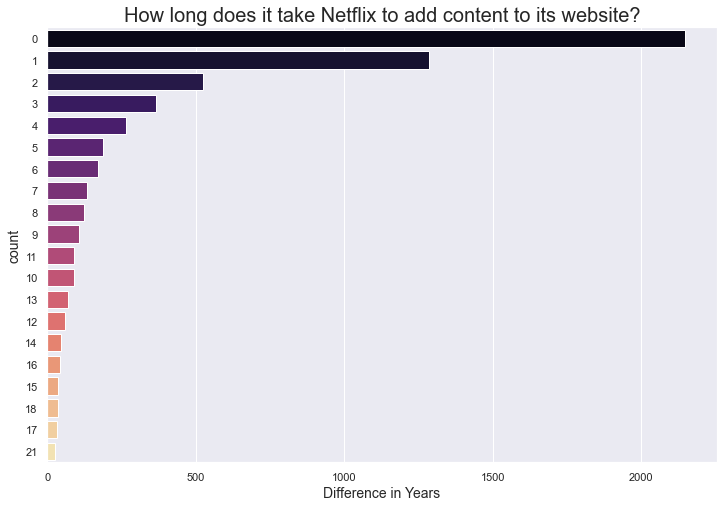
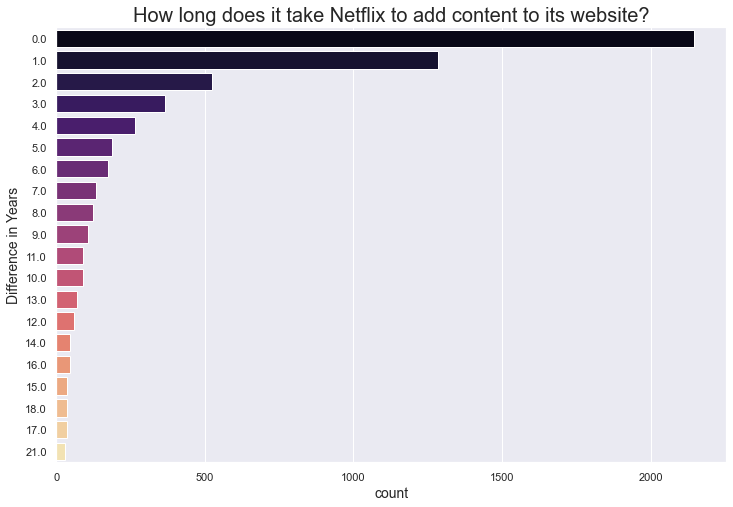
Updating graphs!

diff --git a/Netflix.py b/Netflix.py
@@ -146,16 +146,15 @@ print(ratings_type_df_pivot)
 plt.figure(figsize = (12, 8))
 sns.catplot(x = 'A', hue = 'B', kind = 'count', palette = 'pastel', edgecolor = '.6', data = ratings_type)
 plt.title('Breakdown of Ratings by Content Type', fontsize = 16)
-plt.ylabel('count', fontsize = 14)
-plt.xlabel('Rating', fontsize = 14)
+plt.ylabel('Rating', fontsize = 14)
+plt.xlabel('count', fontsize = 14)
 
 
 plt.figure(figsize = (12, 8))
 sns.countplot(y = 'B', hue = 'A', palette = 'pastel', data = ratings_type)
 plt.title('Breakdown of Ratings by Content Type', fontsize = 20)
-plt.xticks(rotation = 90)
-plt.ylabel('count', fontsize = 14)
-plt.xlabel('Rating', fontsize = 14)
+plt.ylabel('Rating', fontsize = 14)
+plt.xlabel('count', fontsize = 14)
 
 # =============================================================================
 # Examining type
@@ -224,8 +223,8 @@ sns.set()
 plt.figure(figsize = (12, 8))
 sns.countplot(y = 'new_or_old', data = df, palette = 'magma', order = df['new_or_old'].value_counts().head(20).index)
 plt.title('How long does it take Netflix to add content to its website?', fontsize = 20)
-plt.ylabel('count', fontsize = 14)
-plt.xlabel('Difference in Years', fontsize = 14)
+plt.ylabel('Difference in Years', fontsize = 14)
+plt.xlabel('count', fontsize = 14)
 plt.show()
 
 # =============================================================================
@@ -260,8 +259,8 @@ if movie['duration'] == 12:
 plt.figure(figsize = (12, 8))
 sns.countplot(y = 'duration', data = df, palette = 'viridis', order = tv_show['duration'].value_counts().head(25).index)
 plt.title('How many Seasons do most TV Shows have?', fontsize = 20)
-plt.ylabel('count', fontsize = 14)
-plt.xlabel('Seasons', fontsize = 14)
+plt.ylabel('Seasons', fontsize = 14)
+plt.xlabel('count', fontsize = 14)
 plt.show()
 
 
